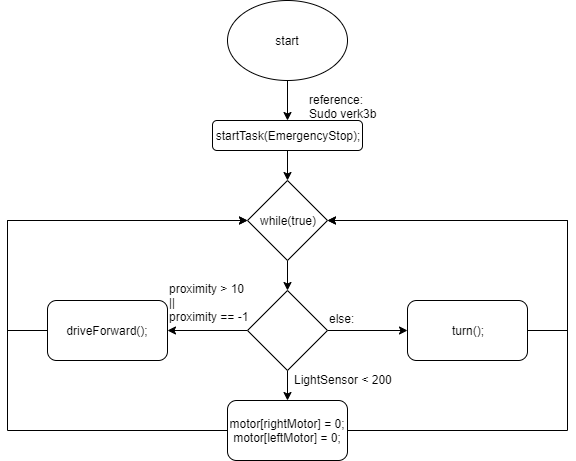
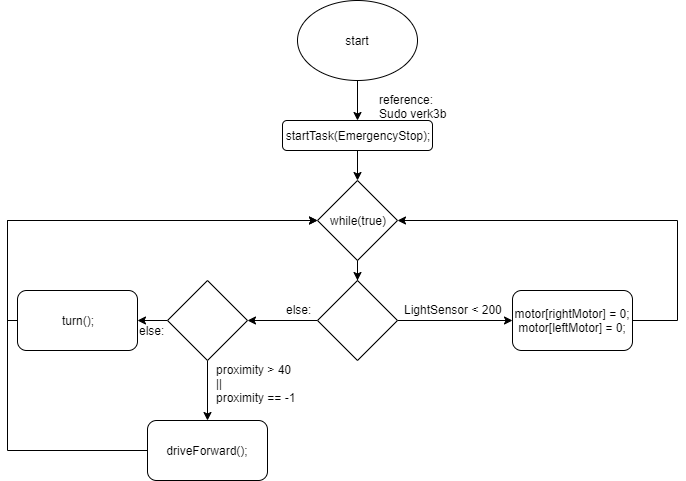
sudo changed, assignment finished

diff --git a/Head/motorFunction.c b/Head/motorFunction.c
@@ -148,6 +148,33 @@ task DriveUsingController(){
   }
 }
 
+//++++++++++++++++++++++++++++++++++++++++++++++++++++++++++++++++++++++++++++++++++++++++++++++++++++
+task driveForever(){
+	while(true)
+	{
+		if(SensorValue(Light) < 200)
+		{
+			if(SensorValue(Sonar) > 40  || SensorValue(Sonar) == -1)
+			{
+				wait1Msec(200);
+				motor[leftMotor] = 80;
+				motor[rightMotor] = 80;
+			}
+			else
+			{
+				wait1Msec(200);
+				motor[leftMotor] = -127;
+				motor[rightMotor] = 127;
+			}
+		}
+		else
+		{
+			motor[leftMotor] = 0;
+			motor[rightMotor] = 0;
+		}
+	}
+}
+
 //++++++++++++++++++++++++++++++++++ EmergencyStop ++++++++++++++++++++++++++++++++++++++++++++
 
 task EmergencyStop(){
@@ -164,23 +191,23 @@ task EmergencyStop(){
 		wait1Msec(5);
 		if(RobotButtonStatus == 1 && RobotButtonBefore == 0){
 			if(RobotStatus){
-				StopTask(DriveUsingController);
+				StopTask(driveForever);
 				FullStopMotors();
 				RobotStatus = false;
 			}
 			else{
-				StartTask(DriveUsingController);
+				StartTask(driveForever);
 				RobotStatus = true;
 			}
 		}
 		if(ControllerButtonStatus == 1 && ControllerButtonBefore == 0){
 			if(RobotStatus){
-				StopTask(DriveUsingController);
+				StopTask(driveForever);
 				FullStopMotors();
 				RobotStatus = false;
 			}
 			else{
-				StartTask(DriveUsingController);
+				StartTask(driveForever);
 				RobotStatus = true;
 			}
 		}
@@ -211,31 +238,5 @@ task battery(){
 
 		//Short delay for the LCD refresh rate
 		wait1Msec(100);
-	}
-}
-//++++++++++++++++++++++++++++++++++++++++++++++++++++++++++++++++++++++++++++++++++++++++++++++++++++
-task driveForever(){
-	while(true)
-	{
-		if(SensorValue(Light) < 200)
-		{
-			if(SensorValue(Sonar) > 30  || SensorValue(Sonar) == -1)
-			{
-				wait1Msec(200);
-				motor[leftMotor] = 80;
-				motor[rightMotor] = 80;
-			}
-			else
-			{
-				wait1Msec(200);
-				motor[leftMotor] = -80;
-				motor[rightMotor] = 80;
-			}
-		}
-		else
-		{
-			motor[leftMotor] = 0;
-			motor[rightMotor] = 0;
-		}
 	}
 }

diff --git a/verkefni4/verk4.c b/verkefni4/verk4.c
@@ -16,8 +16,8 @@
 //*!!Code automatically generated by 'ROBOTC' configuration wizard               !!*//
 
 /*
-				this code makes it possible to use the controller to control what the robot does.
-				We also created a "emergency stop" task that stops the DriveUsingController task.
+				this code is made for the robot to drive forward forever without collisioning anything in the environment
+				if the sonar detecs something that is within 40 cm it starts turning until there is nothing in front of it
 */
 
 #include "../Head/constNumber.h"
@@ -27,30 +27,8 @@ task main()
 
 	StartTask(battery);
 	StartTask(EmergencyStop);
+	StartTask(driveForever);
 
-	while(true)
-	{
-		if(SensorValue(Light) < 200)
-		{
-			if(SensorValue(Sonar) > 30  || SensorValue(Sonar) == -1)
-			{
-				wait1Msec(200);
-				motor[leftMotor] = 80;
-				motor[rightMotor] = 80;
-			}
-			else
-			{
-				wait1Msec(200);
-				motor[leftMotor] = -80;
-				motor[rightMotor] = 80;
-			}
-		}
-		else
-		{
-			motor[leftMotor] = 0;
-			motor[rightMotor] = 0;
-		}
-	}
-
+	while(true){/*must run*/};
 
 }
